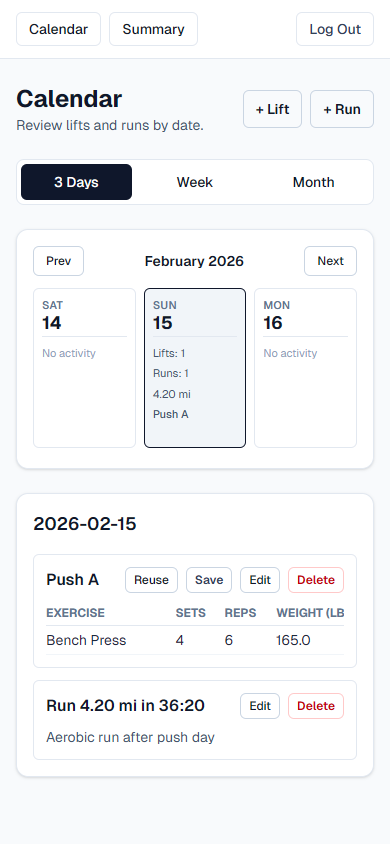
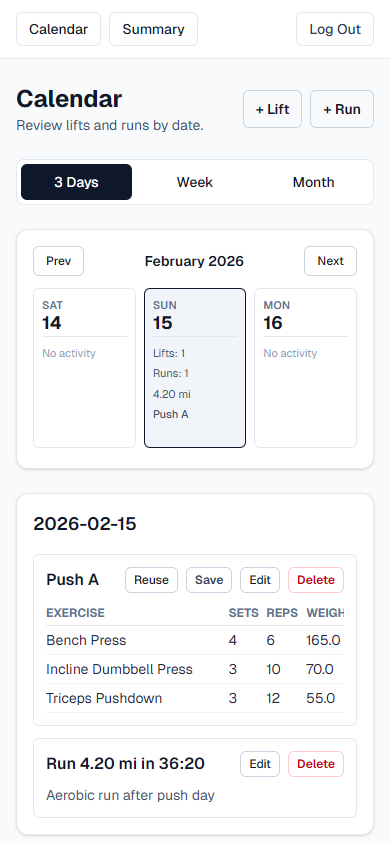
docs: update mobile gallery layout and refresh 3-day screenshot

Changed region(s): [[0.0615, 0.7085, 0.9231, 0.955], [0.5846, 0.7085, 0.8923, 0.8626]]

diff --git a/README.md b/README.md
@@ -6,13 +6,10 @@ Activity Tracker is a Next.js app for logging lifts and runs with strict per-use
 
 Captured at a mobile viewport size of `390x844`.
 
-### 3-Day Calendar (Lift + Run On Same Day)
-
-![Mobile 3-day calendar view with both a lift and run](docs/screenshots/mobile-calendar-3day-mixed.png)
-
-### Summary (Past Week)
-
-![Mobile summary week view](docs/screenshots/mobile-summary-week.png)
+<p>
+  <img src="docs/screenshots/mobile-calendar-3day-mixed.png" alt="Mobile 3-day calendar view with both a lift and run" width="48%" />
+  <img src="docs/screenshots/mobile-summary-week.png" alt="Mobile summary week view" width="48%" />
+</p>
 
 ## What The App Does
 
